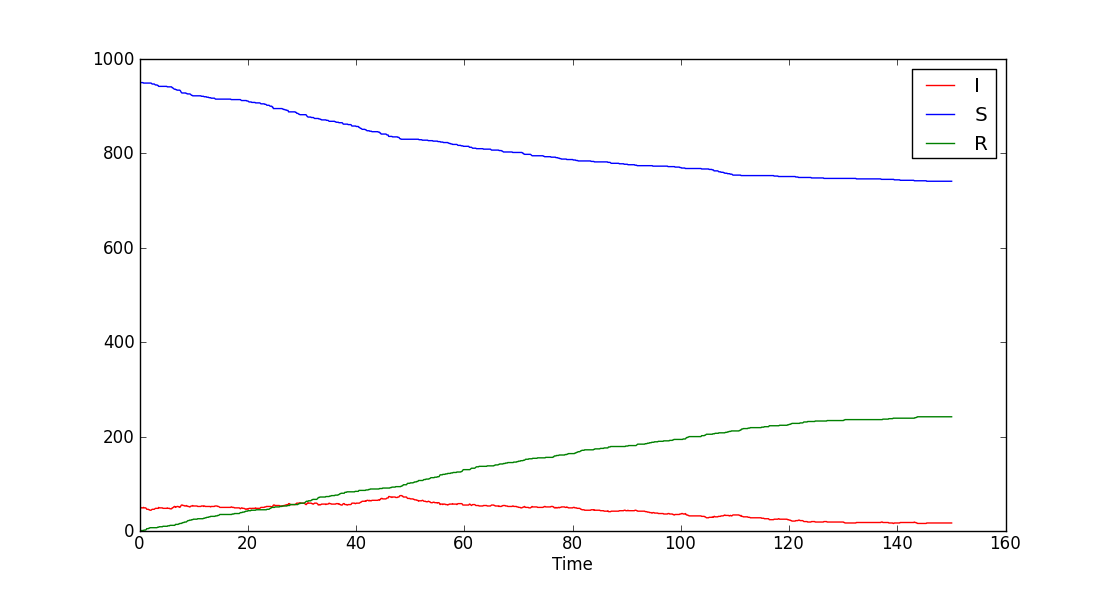
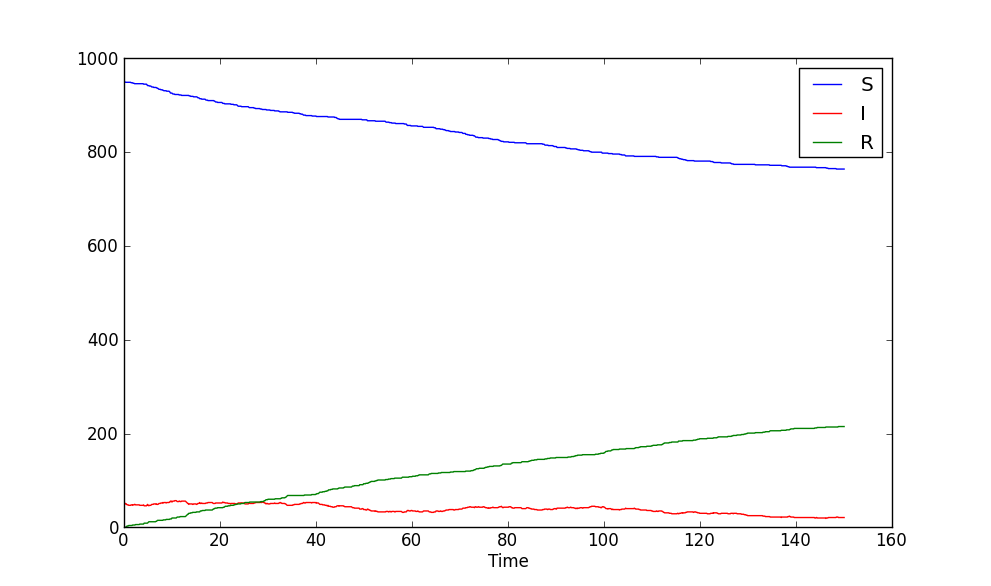
Updated documentation. Added SIJR figure.
- tutorial.rst
   Text walked through, examples checked, figures generated.

- index.rst
   About text added.

- conf.py
   Project name changed, title changed, theme changed.

- download_and_installation.rst
   Spell changes.

diff --git a/doc/conf.py b/doc/conf.py
@@ -96,7 +96,7 @@ pygments_style = 'sphinx'
 
 # The theme to use for HTML and HTML Help pages.  See the documentation for
 # a list of builtin themes.
-html_theme = 'default'
+html_theme = 'sphinxdoc'
 
 # Theme options are theme-specific and customize the look and feel of a theme
 # further.  For a list of options available for each theme, see the
@@ -108,7 +108,7 @@ html_theme = 'default'
 
 # The name for this set of Sphinx documents.  If None, it defaults to
 # "<project> v<release> documentation".
-#html_title = None
+html_title = "NepidemiX"
 
 # A shorter title for the navigation bar.  Default is the same as html_title.
 #html_short_title = None

diff --git a/doc/tutorial.rst b/doc/tutorial.rst
@@ -17,7 +17,7 @@ I advice you to go through the sections in order and do the exercises as they wi
 Things that may be good to know 
 --------------------------------
 
-This section lists some very basic concepts that may be good to grasp before starting the actual tutorial. The descriptions are quite brief, and if you feel that the concepts here are somewhat out of your grasp it may be a good idea to loook around the web for some additional information before proceeding.
+This section lists some very basic concepts that may be good to grasp before starting the actual tutorial. The descriptions are quite brief, and if you feel that the concepts here are somewhat out of your grasp it may be a good idea to look around the web for some additional information before proceeding.
 
 ini files 
 ~~~~~~~~~~
@@ -111,7 +111,7 @@ Now, we can start running some simulations!
 Running our first simulation
 ============================
 
-While the nepidemix module can be loaded in an interactive python shell (like all other python) module it was primarlily designed to be accessed by applications. To use it interactively would mean that we need to manually load and create an appropriate configuration every time. This is cubersome, and better scripted. We will use the python program **nepidemix_runsimulation** for this. In its simplest form the script require one argument: a configuration file. The next step is to write this file.
+While the nepidemix module can be loaded in an interactive python shell (like all other python) module it was primarily designed to be accessed by applications. To use it interactively would mean that we need to manually load and create an appropriate configuration every time. This is cumbersome, and better scripted. We will use the python program **nepidemix_runsimulation** for this. In its simplest form the script require one argument: a configuration file. The next step is to write this file.
 
 
 Configuring an SIS simulation
@@ -126,9 +126,9 @@ I will return to the parameters :math:`\beta, \delta` when configuring the proce
 
 Later I'll show you how to specify processes, but for now let's use a pre-made SIS specification.
 
-* Copy the file **SIS_process_def.ini** to your **config** folder. It shoudl be located in *examples/tutorial/conf/* in the NedpidemiX documentation.
+* Copy the file **SIS_process_def.ini** to your **config** folder. It should be located in *examples/tutorial/conf/* in the NepidemiX documentation.
 
-* If you can not find the file, or rather want to have a look at the contents, use your favourite text editor to create a file called **SIS_process_def.ini** it in the **config** folder and copy the following into it::
+* If you can not find the file, or rather want to have a look at the contents, use your favorite text editor to create a file called **SIS_process_def.ini** it in the **config** folder and copy the following into it::
 
    [NodeAttributes]
    status = S,I
@@ -169,7 +169,7 @@ We start with the following general piece of simulation information::
    
 The comments behind the # symbols should be fairly self-explanatory. The section title is written in square brackets; the options are to the left of the = signs and whatever is on the right is the value of said option. 
 
-Note the option **process_class** is set to the value *ScriptedProcess*. The name *ScriptedProcess* is a class defined within the nepidemix module. The value of **process_class** determine which process will run on the network. There are no finished processes defined within nepidemix. One can specify processes by either ini scripting or by writing a Python class. Later in this tutorial we'll se how to define new Processes. *ScriptedProcess* just means that the process will be provided as a configuration file.
+Note the option **process_class** is set to the value *ScriptedProcess*. The name *ScriptedProcess* is a class defined within the nepidemix module. The value of **process_class** determine which process will run on the network. There are no finished processes defined within nepidemix. One can specify processes by either ini scripting or by writing a Python class. Later in this tutorial we'll see how to define new Processes. *ScriptedProcess* just means that the process will be provided as a configuration file.
 
 The network generation algorithm function is set using the option **network_func**. Set it to the value *barabasi_albert_graph_networkx* which is the networkx implementation of the BA preferential attachment algorithm. There are a few different network generation functions implemented already, for example: *grid_2d_graph_networkx* -- create a regular grid; *fast_gnp_random_graph_networkx* -- Erdős-Rényi random graph; *load_network* -- load a network from file;  *connected_watts_strogatz_graph_networkx* -- Watts-Strogatz graph.
 
@@ -195,7 +195,7 @@ This section serves two purposes: to tell the simulation which process script we
 
 The **file** option in the configuration section below is the name of the process definition file. In our case it is **SIS_process_def.ini**.
 
-The process parameters are the parameter values in our process model. They options in this section must match the names for the process parameters. When implementing custom processes later we'll se how to define the parameter names. For the already defined SISProcess however we have the two parameters **beta** and **delta** (corresponding to :math:`\beta`, `\delta` in the process description) so this needs to be the name of the options given here.
+The process parameters are the parameter values in our process model. They options in this section must match the names for the process parameters. When implementing custom processes later we'll see how to define the parameter names. For the already defined SISProcess however we have the two parameters **beta** and **delta** (corresponding to :math:`\beta`, `\delta` in the process description) so this needs to be the name of the options given here.
 Copy the following into your **SIS_example.ini** file::
 
    # Defining the process parameter values.
@@ -295,11 +295,11 @@ Anyway, after pressing return the simulation will print a lot of things and hope
 
 When the simulation is done and you return to screen have a look in your output directory. If all have gone well you will find four files there: test_SIS_<date>_0000000000.gpickle.bz2, test_SIS_<date>_0000000500.gpickle.bz2, test_SIS_<date>_2011.ini, test_SIS_<date>_state_count.csv . Where <date> is the date and time of execution. So what are these files? 
 
-* The **.gpickle.bz2** files are the complete network structure and node status saved in a networkx python format (and packed with bzip). The number is the iteration, so that 0 is the initial network and 500 is the network after the last iteration. These files can be loaded to graphs by networkx using the networkx.readwrite.read_pickle() function. The reason you have these files is that you set **save_network** to *yes*, and **save_network_interval** to *0*.
+* The **.gpickle.bz2** files are the complete network structure and node status saved in a networkx python format (and packed with bzip2). The number is the iteration, so that 0 is the initial network and 500 is the network after the last iteration. These files can be loaded to graphs by networkx using the networkx.readwrite.read_pickle() function. The reason you have these files is that you set **save_network** to *yes*, and **save_network_interval** to *0*.
 
 * The **.ini** file is a copy of SIS_example.ini that you just ran, but without the comments. You have it because you set **save_config** to *yes*. Why would we want it? To save the exact config used to run this simulation together with the results. It has contain an additional section called **[Info]**. Open it up and have a look, you will find information such as execution time average clustering and degree there.
 
-* The **_node_state_count.csv** file is a comma separated value file containing the state count on the network at time intervals. The first row is the table headers, and the first column time, one column per (mean field) state follows. You can open it up for example using your favourite spread sheet application.
+* The **_node_state_count.csv** file is a comma separated value file containing the state count on the network at time intervals. The first row is the table headers, and the first column time, one column per (mean field) state follows. You can open it up for example using your favorite spread sheet application.
 
 In fact, go ahead and do what is suggested in the last bullet point above: look at the csv file. Either in a text editor or by importing in in a spread sheet application. You'll see three column headings *Time*, *frozenset([('status', 'S')])*, and *frozenset([('status', 'I')])*. The *Time* column is the current iteration times the time step (**dt**). The other two columns has quite funny names, but if you ignore the `frozenset` text and the brackets, it is quite easy to imagine that this is the nodes which has status *S* and *I* respectively. This is also the case. The two columns contain the number of nodes in each state. As you can see there are 950 *S* nodes to start with and only 50 infected.
 
@@ -327,19 +327,19 @@ There are currently two ways to build processes for a nepidemix simulation to us
 
 Use this approach if your process
 
-* Has node state transition probabilities that can be described as a function of a rate and / or the number of neighbours in the variour network states
+* Has node state transition probabilities that can be described as a function of a rate and / or the number of neighbors in the various network states
 
-* Require only limited edge state functionality, or mean field transiotion. (These things will be supported in a future releases.)
+* Require only limited edge state functionality, or mean field transition. (These things will be supported in a future releases.)
 
 
 The SIR model 
 --------------
 
-Here we'll look at the SIR process. **S** -- suceptible, **I** -- infected, and **R** -- recovered. That is instead of dying after some time in the infected class and returning to suceptible (the SIS model), the node recover and end up in the **R** state.
+Here we'll look at the SIR process. **S** -- susceptible, **I** -- infected, and **R** -- recovered. That is instead of dying after some time in the infected class and returning to susceptible (the SIS model), the node recover and end up in the **R** state.
 
 We will let the rate of infection be :math:`\beta`, and the recovery rate be :math:`\gamma`. The transition probabilities in unit tile are then
 
-* From **S** to **I** (given node in state **S**): :math:`\beta I`, where :math:`I` is the number of neighbours in state **I**.
+* From **S** to **I** (given node in state **S**): :math:`\beta I`, where :math:`I` is the number of neighbors in state **I**.
 
 * From **I** to **R** (given node in state **I**): :math:`\gamma`
 
@@ -386,15 +386,15 @@ Worth noting in the above configuration is that the rules must have a specific f
 
 * The values of the options must be an expression computing the probability (in unit time) for the state transition.
 
-   - **NN** is a built-in function that returns the number of nearest neighbour in some state.
+   - **NN** is a built-in function that returns the number of nearest neighbor in some state.
    
-   - All symbols not arithmetic, states, or defined functions (currently **NN** for nearest neighbours, and **MF** for mean field) are treated as parameters. Their values will be defined below.
+   - All symbols not arithmetic, states, or defined functions (currently **NN** for nearest neighbors, and **MF** for mean field) are treated as parameters. Their values will be defined below.
 
 * Name parameters and state names using strings. Anything that is OK in a python interpreter should be OK here. Stay away from python's reserved words.
 
 Thus, when reading the above configuration network model will create a custom process with the states found on the options side (left hand of the = -sign) and with the parameters found on the value side (right hand side of the = -sign). It has no way of knowing the values of the parameters, nor the initial state distribution of the network. That is why we need the same kind of configuration file as for the SIS example above in order to run the simulation.
 
-I'm going to assume that you have done that part of the tutorial and have a pretty good idea about what the differen configuratation options mean already. Therefore, I will only point out the differences used for the SIR model. Copy the below into a new file and save it as **SIR_example.ini** in the **conf** directory::
+I'm going to assume that you have done that part of the tutorial and have a pretty good idea about what the different configuration options mean already. Therefore, I will only point out the differences used for the SIR model. Copy the below into a new file and save it as **SIR_example.ini** in the **conf** directory::
 
    
    # This is the simulation section.
@@ -513,7 +513,7 @@ Here are a couple of things to try out
 
 #. Try around changing the states declared in the **MeanFieldStates** section. If you didn't do it from the start, append the general partial state **{}** to the list of mean field states. Run the simulation and look at the  resulting csv file. What is different? 
 
-#. One can also define partial states matching just a subset of attribute values. Add the folowing mean field: **{status:(S,I)}**. Run the simulation and look at the results. What does this mean field represent?
+#. One can also define partial states matching just a subset of attribute values. Add the following mean field: **{status:(S,I)}**. Run the simulation and look at the results. What does this mean field represent?
 
 
 
@@ -547,7 +547,7 @@ At the top of the file we will first import some external modules that we will n
    from nepidemix.utilities.networkxtra import attributeCount, neighbors_data_iter
    import numpy
 
-The first two lines import the ExplicitStateProcess class from nepidemix as well as a utility functions, :ref:`NepidemiX-API-networkxtra.attributeCount`, (useful to count attributes on networkx graphs) and :ref:`NepidemiX-API-networkxtra.neighbors_data_iter` (yielding an iterator over nearest neighbours in a networkx graph, together with their attribute dictionaries) . The third line imports the `numpy <http://numpy.scipy.org/>`_ package.
+The first two lines import the ExplicitStateProcess class from nepidemix as well as a utility functions, :ref:`NepidemiX-API-networkxtra.attributeCount`, (useful to count attributes on networkx graphs) and :ref:`NepidemiX-API-networkxtra.neighbors_data_iter` (yielding an iterator over nearest neighbors in a networkx graph, together with their attribute dictionaries) . The third line imports the `numpy <http://numpy.scipy.org/>`_ package.
 
 Now we are ready to derive a class for the SIR process. Classes in python are defined using the **class** keyword, so go ahead and declare a class called **SIRProcess** deriving from :ref:`NepidemiX-API-ExplicitStateProcess`, the code looks like this::
 
@@ -567,7 +567,7 @@ Now update your code so that it reads::
 
 This code only declare the class and the methods. The **pass** command just tells python that nothing is being done (I've put there so that your programming editors won't be confused by empty declarations).
 
-As you can see I have listed the parameters of the methods. The first parameter in a class methods must always be **self** wich when the method is being called will be a reference to the instance of the class calling the method. Thus **self** is akin to **this** used in C++ and Java, however it is explicitly listed as a parameter in python.
+As you can see I have listed the parameters of the methods. The first parameter in a class methods must always be **self** which when the method is being called will be a reference to the instance of the class calling the method. Thus **self** is akin to **this** used in C++ and Java, however it is explicitly listed as a parameter in python.
 
 Now, let's look at the other parameters passed into the methods.
 **__init__** takes two parameters: **beta** and **gamma**, these will represent the infection and recovery rates respectively. (We used the same names for the rates in the scripted example above, remember?). The important thing to remember here is that whatever parameters we name here (except for self) needs to be defined as options in the **ProcessParameters** section of the simulation configuration file. I will return to this.
@@ -589,13 +589,13 @@ Now that we know what information is being passed to the methods we can go ahead
 
 As you can see, I have gone ahead and replace the **pass** with a few lines of code. You can go ahead and do the same in your file. When you are done I'll tell you what the code does.
 
-The only piece of code here that may seem a bit mysterious is the first call super... and so on. What it does however is really simple: it calls the **__init__** method of our super class. Which is :ref:`NepidemiX-API-ExplicitStateProcess` as we derived from that class. The reason why we need to do this is that there may be code (there is!) in that class that needs to be executed when the class instance is created. Remember, our **SIRProcess** is an :ref:`NepidemiX-API-ExplicitStateProcess` and thus share that class' attributes. (Maybe you now think, well, it's also a **Process** class, what about that initialization? The answer is that as it is not a direct descendent we don't need to worry; :ref:`NepidemiX-API-ExplicitStateProcess` will take care of that. But in theory you are correct.) The command **super** will, given a class name, and a class instance (**self**) yield the super class of said class. After that we may call the **__init__** method of said class as if it was called from our **SIRProcess** object.
+The only piece of code here that may seem a bit mysterious is the first call super... and so on. What it does however is really simple: it calls the **__init__** method of our super class. Which is :ref:`NepidemiX-API-ExplicitStateProcess` as we derived from that class. The reason why we need to do this is that there may be code (there is!) in that class that needs to be executed when the class instance is created. Remember, our **SIRProcess** is an :ref:`NepidemiX-API-ExplicitStateProcess` and thus share that class' attributes. (Maybe you now think, well, it's also a **Process** class, what about that initialization? The answer is that as it is not a direct descendant we don't need to worry; :ref:`NepidemiX-API-ExplicitStateProcess` will take care of that. But in theory you are correct.) The command **super** will, given a class name, and a class instance (**self**) yield the super class of said class. After that we may call the **__init__** method of said class as if it was called from our **SIRProcess** object.
 
 Anyway, to figure out what parameters we should send, go ahead and have a look at the documentation for :ref:`NepidemiX-API-ExplicitStateProcess` by clicking that link, or use the pydoc utility::
 
    > pydoc nepidemix.process.ExplicitStateProcess
 
-We can see that its init-method has the following form **__init__(self, nodeStates, edgeStates, runNodeUpdate=True, runEdgeUpdate=True, runNetworkUpdate=True, constantTopology=False)**. Except for the self-parameter (which will be automatically filled in by python, so we don't have to worry about it) it takes five arguments. The first two, **nodeStates** and **edgeStates** are lists containing the node and edge state names respectively. This explain the first two parameters in the **super** call: the first list contain the names of node states, *S*, *I*, *R*. The second is an empty list because this model does not have any node states. Finally, there are three boolean valued variables. In the definition these all have standard values set to true: **runNodeUpdate=True, runEdgeUpdate=True, runNetworkUpdate=True** (this means that if we would not send in any parameters here they would get these values). The flags will tell our simulation if it should try to do node, edge, and network state updates respectively. (A network update is an update to attributes associated with the network as a whole.) As I wrote, by default these are all on, however, as our method only has node updates, and we do not care about edge or network updates we may set the last two to false. The same goes for the last flag, **constantTopology**, by setting this to True the Simulation will know that your process does not change any network topology. This will speed up the simulation as it may skip these steps.
+We can see that its init-method has the following form **__init__(self, nodeStates, edgeStates, runNodeUpdate=True, runEdgeUpdate=True, runNetworkUpdate=True, constantTopology=False)**. Except for the self-parameter (which will be automatically filled in by python, so we don't have to worry about it) it takes five arguments. The first two, **nodeStates** and **edgeStates** are lists containing the node and edge state names respectively. This explain the first two parameters in the **super** call: the first list contain the names of node states, *S*, *I*, *R*. The second is an empty list because this model does not have any node states. Finally, there are three Boolean valued variables. In the definition these all have standard values set to true: **runNodeUpdate=True, runEdgeUpdate=True, runNetworkUpdate=True** (this means that if we would not send in any parameters here they would get these values). The flags will tell our simulation if it should try to do node, edge, and network state updates respectively. (A network update is an update to attributes associated with the network as a whole.) As I wrote, by default these are all on, however, as our method only has node updates, and we do not care about edge or network updates we may set the last two to false. The same goes for the last flag, **constantTopology**, by setting this to True the Simulation will know that your process does not change any network topology. This will speed up the simulation as it may skip these steps.
 
 The last two lines of code in the example above, creates two class attributes in the **SIRProcess** class called **beta** and **gamma**, and assigns to them the value of the parameters **beta** and **gamma** that was sent in to the init method. Before assignment the parameters are converted to float type. This is because we can not be sure what type the sent in parameters will have (actually they will mostly be strings as they are read from the setup files which are text) and thus we need to try to convert them.
 
@@ -647,10 +647,10 @@ Second, there is a couple of lines looking like::
 
 So, now we have a dictionary of counters for every state a node can be in, what do we do with it? Well the next line will count the number of nearest neighbors of the node and update the dictionary with this value. :ref:`NepidemiX-API-networkxtra.attributeCount` is a utility function that can be found in **nepidemix.utilities.networkxtra** (check it out with pydoc if you like). It accepts two parameters: first an iterator over all nodes with data that should be counted (this could be an iterator over the full network, or in this case just over a subset) and the name of the attribute to count (in this case the name of the attribute holding the node state). 
 
-Finally, let me explain the call **neighbors_data_iter(srcNetwork, node[0])**. This is also a nepidemix utility function and it creates an iterator over the nearest neighbour node, data-tuples given a network and a node in this network. Remember that **srcNetwork** is the NetworkX graph sent to our method and  **node[0]** is the node ID in this network.
+Finally, let me explain the call **neighbors_data_iter(srcNetwork, node[0])**. This is also a nepidemix utility function and it creates an iterator over the nearest neighbor node, data-tuples given a network and a node in this network. Remember that **srcNetwork** is the NetworkX graph sent to our method and  **node[0]** is the node ID in this network.
 You may ask why we need a utility function to build this iterator, doesn't NetworkX provide functions for this? Unfortunately not in this case: the  nearest neighbor iterator provided by NetworkX does only give an iterator over node id's and not over (<id>, <data dict>) tuples, which is what is needed in this case.
 
-Long explanations, but fortunately you will most probably not need to change any of this paricular piece of code in your own implementations.
+Long explanations, but fortunately you will most probably not need to change any of this particular piece of code in your own implementations.
 
 Now that we know the state of our node and have a dictionary where we can look up the number of nearest neighbors in a specific state, we are ready to check if the state of the node should be changed. 
 
@@ -667,7 +667,7 @@ First a random number between 0 and 1 is created using one of numpy's random fun
 
 You can see us checking the variable srcState first and in case we are in that state computing a probability to compare our event to given that we are in that state. The attributes **self.beta** and **self.gamma** that were set in the **__init__** method are used here. Also not that the computed probabilities are multiplied with **dt** as the formulas given for the SIR model above were in unit time (0 < **dt** <=1 [typically]).
 
-The final two rows of the method implementation respectively sets the state attribute in the node attribute dictionary to whatever value is in **dstState** (if none of the events happened in our if-cases this value will be the original state and nothing happends), and returns the node. These two rows are important as without them the simulation might run but not much would happen.
+The final two rows of the method implementation respectively sets the state attribute in the node attribute dictionary to whatever value is in **dstState** (if none of the events happened in our if-cases this value will be the original state and nothing happens), and returns the node. These two rows are important as without them the simulation might run but not much would happen.
 
 Now, then, to repeat, you should have something like the following in your editor::
 
@@ -787,7 +787,7 @@ Let's extend the SIR model by adding super-spreaders to the infected class. A su
 
 Let us assume that with rate :math:`\alpha` an infected node turns into a super-spreader; moreover once the node is super-spreading it can not go back to a 'normal' infected node.  Like all other infected nodes a super-spreader can still recover, however (for simplicity, we assume the same rate, :math:`\gamma` as for the normal infected nodes). As for the additional risk of having super spreaders in the network I will use the naive view that for a single susceptible node the transition probability per unit time to an infected state increases with the fraction of super-spreaders on the network.
 
-Now, there are several way in which we can implement super spreading, a) we could change network topology and link a super-spreader node to all other nodes (or at least all susceptible nodes), or b) we could add a flag-attribute to super-spreader nodes and thus treat them differently, or c) we can add an additional state for infected nodes that is superspreading. I am sure you can come up with other options as well.
+Now, there are several way in which we can implement super spreading, a) we could change network topology and link a super-spreader node to all other nodes (or at least all susceptible nodes), or b) we could add a flag-attribute to super-spreader nodes and thus treat them differently, or c) we can add an additional state for infected nodes that is super-spreading. I am sure you can come up with other options as well.
 
 I have chosen to implement c) here, because topology changes may be costly and because I want to keep track of the number of super-spreaders. Let's call the super-spreader state **J**, and our new model the SIJR process.
 Let  the transition diagram be the following:
@@ -805,7 +805,7 @@ With that out of the way, let's do some programming!
 Will continue to work in the file **extended_SIR.py** that you created previously. A python file can contain several classes.
 Start by creating a class called **SIJRProcess** in your file, just as for **SIRProcess** it will inherit :ref:`NepidemiX-API-ExplicitStateProcess`
 
-I will show you the init and node update methods in a little while, but let's start with computing fraction of the population in state **J** because what makes the SIJR process impossible to implement using the current **ScriptedProcess** is that we need acess to the fraction of nodes in state **J** when updating the node states.
+I will show you the init and node update methods in a little while, but let's start with computing fraction of the population in state **J** because what makes the SIJR process impossible to implement using the current **ScriptedProcess** is that we need access to the fraction of nodes in state **J** when updating the node states.
 
 Thus, we need to implement it as a python class. Again, there are different strategies to do this, but I will make use of the network update method provided by the **Process** class. This method, called **networkUpdateRule**, is called once *after* all nodes and edges of a network has been updated. The method is given the full network and is free to make any updates to it. 
 We will use this method to set a network attribute that we shall call **fracJ** representing the fraction of nodes in state **J** on the network in each iteration.
@@ -818,7 +818,7 @@ The most straight forward way of implementing the method is as follows::
            network.graph['fracJ'] = d.get('J',0)/float(len(network))
            return network
 
-This implementation relies on the same utility function, :ref:`NepidemiX-API-networkxtra.attributeCount` that we were using in the SIR implementation to get the nearest neighbours, but instead of feeding it an iterator of the nearest neighbours we enter an iterator over all the nodes in the network. The state counts are then stored in the dictionary **d**, and we query it for the number in state **J** (telling get to use the value of 0 in case **d** does not contain the key), dividing this amount by the size of the network.
+This implementation relies on the same utility function, :ref:`NepidemiX-API-networkxtra.attributeCount` that we were using in the SIR implementation to get the nearest neighbors, but instead of feeding it an iterator of the nearest neighbors we enter an iterator over all the nodes in the network. The state counts are then stored in the dictionary **d**, and we query it for the number in state **J** (telling get to use the value of 0 in case **d** does not contain the key), dividing this amount by the size of the network.
 
 This will work and run fine, however we explicitly go through all nodes in the network only to count the states, this can be expensive for large networks. Instead we can keep track of the number of nodes in state **J** when we update the states. Then we will have the number directly in this method and do not have perform the count.
 The new version of the method would look like this::
@@ -829,7 +829,7 @@ The new version of the method would look like this::
            return network 
 
 
-This assumes that we have a counter called **Jcounter** in cour class with the correct number of nodes in state **J**. To do so we need to add one to the counter every time a node enters state **J** and remove one every time a node exits. This will of course be done in the node update rule, so let's have a look at the implementation::
+This assumes that we have a counter called **Jcounter** in our class with the correct number of nodes in state **J**. To do so we need to add one to the counter every time a node enters state **J** and remove one every time a node exits. This will of course be done in the node update rule, so let's have a look at the implementation::
 
    
        def nodeUpdateRule(self, node, srcNetwork, dt):
@@ -872,7 +872,7 @@ This assumes that we have a counter called **Jcounter** in cour class with the c
 The form should be familiar to you from implementing the SIR process. Note the increment of the **Jcounter** when we enter the state from **I** and the decreasing when leaving from **J**. Another detail worth thinking about is the branching within the **I** state where we first check if the node recovers (**R**), and if not checks if it becomes a super-spreader (**J**). This does make sense as if the check was in the other order the node could 'avoid' recovery by turning into a super-spreader.
 Finally, look at the transition probability computation going from **S** to **I**. Note how the network attribute is used.
 
-There is one piece missing from our counter-puzle however: the initial count. We can not use 0, because when we run the simulation we can set any distribution in the **NodeStateDistribution** section. Thus, we have to perform a count after the node states has been initialized.  To do so we will overload another method from Process: **initializeNetworkNodes**. This is the method that the simulation will give the node distribution from the settings and it is responsible for portioning nodes conforming to said distribution out on the network. This functionality is implemented in our parent class ( :ref:`NepidemiX-API-ExplicitStateProcess` ), and we don't want to re-do that job. Therefore we will overload the method here, then call the original implementation, and afterwards do our own thing. It looks like this::
+There is one piece missing from our counter-puzzle however: the initial count. We can not use 0, because when we run the simulation we can set any distribution in the **NodeStateDistribution** section. Thus, we have to perform a count after the node states has been initialized.  To do so we will overload another method from Process: **initializeNetworkNodes**. This is the method that the simulation will give the node distribution from the settings and it is responsible for portioning nodes conforming to said distribution out on the network. This functionality is implemented in our parent class ( :ref:`NepidemiX-API-ExplicitStateProcess` ), and we don't want to re-do that job. Therefore we will overload the method here, then call the original implementation, and afterwards do our own thing. It looks like this::
 
       
        def initializeNetworkNodes(self, network, *args, **kwargs):
@@ -986,7 +986,9 @@ That is it, below is the full code for the class, in case you want to control it
    
 By now you should be experienced enough to write your own configuration file, but I will let you know that: a) you have a new process class name (but the module is the same, because it is saved in the same file as before), b) you have a new state, c) you have an additional parameter **alpha**.
 
-Run it and see how it looks, observe how the system reacts to only a few super-spreaders.
+Run it and see how it looks, observe how the system reacts once a few super-spreaders have appeared. This the plot from one of my runs over 2000 iterations (dt = 0.1), with alpha = 0.01 ( and gamma and beta as in the SIR example above), and an initial network with S = 0.95, I = 0.05, J = 0, R = 0:
+
+.. image:: figures/SIJR_plot1.png
 
 
 Exercises
@@ -994,5 +996,5 @@ Exercises
 
 #. Why couldn't we have used **self.Jcount / len(srcNetwork)** directly in **nodeUpdateRule** ? What would have gone wrong?
 
-#. Start again with the SIR process. Instead super-spreaders this time, assume that the infection rate :math:`\beta` now is a function :math:`\beta(t) = \beta_0 + \kappa t`, where :math:`\beta_0, \kappa` are parameters but :math:`t` is the time the node has been in the **I** state. Thus the infectivity of a node increases linearly with the time of infection. Implement this process. Tip: remember that a node may have other attributes that state.
+#. Start again with the SIR process. Instead super-spreaders this time, assume that the infection rate :math:`\beta` now is a function :math:`\beta(t) = \beta_0 + \kappa t`, where :math:`\beta_0, \kappa` are parameters but :math:`t` is the time the node has been in the **I** state. Thus the infectiousness of a node increases linearly with the time of infection. Implement this process. Tip: remember that a node may have other attributes than state.
 

diff --git a/doc/download_and_installation.rst b/doc/download_and_installation.rst
@@ -5,13 +5,13 @@ Downloading and installing NepidemiX
 Prerequisites
 -------------
 
-NepidemiX is written in Python and uses functions in some third party Python packages (most notably NetworkX and numpy). You Will need these installed on your system before you can run NepidemiX. See the lists below for details.
+NepidemiX is written in Python and uses functions in some third party Python packages (most notably NetworkX and numpy). You will need these installed on your system before you can run NepidemiX. See the lists below for details.
 
 Required software
 ~~~~~~~~~~~~~~~~~
 
 * Python 2.7 [ http://www.python.org/download ]
-   NepidemiX was written for python 2.7 (at the time when development started some of the third party packages did not support Python 3), 2.6 should work as well. Python 3 is currently not officially supported, but we are working on it.
+   NepidemiX was written for python 2.7 (at the time when development started some of the third party packages did not support Python 3), Python 3 is currently not officially supported, but we are working on it.
 
 * numpy [ http://numpy.scipy.org/ ]
    Download the latest version for your system and follow the installation instructions. Numpy can also be installed as part of the larger scipy package ( http://www.scipy.org ) which brings many additional features.

diff --git a/doc/index.rst b/doc/index.rst
@@ -3,8 +3,11 @@
    You can adapt this file completely to your liking, but it should at least
    contain the root `toctree` directive.
 
-Welcome to NepidemiX's documentation!
-=====================================
+Welcome to NepidemiX!
+=====================
+
+NeipdemiX is a software package for simulating complex processes on networks. It was developed by members of the `IMPACT-HIV <http://impact-hiv.irmacs.sfu.ca/home/>`_
+group and is published under the modified BSD license.
 
 Contents:
 
